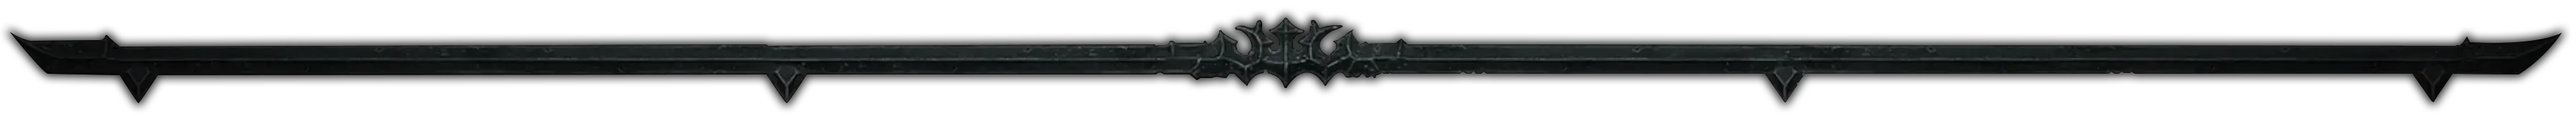
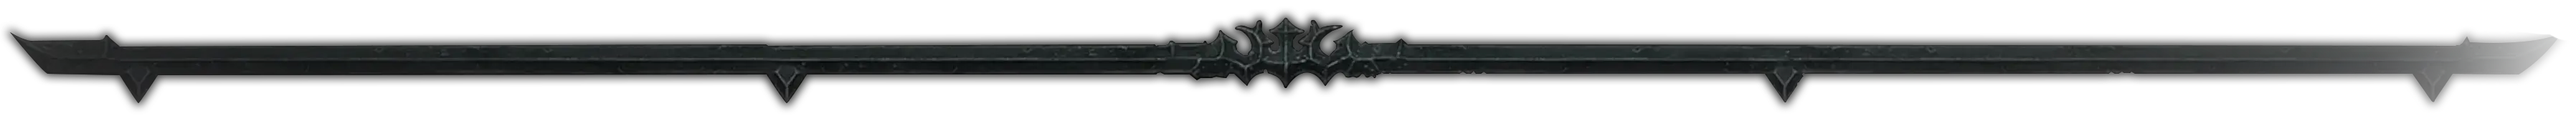
addressed lint flags

Changed region(s): [[0.7795, 0.2469, 0.9978, 0.8951], [0.0, 0.3395, 0.0624, 0.6481], [0.0312, 0.7099, 0.0624, 0.8333]]

diff --git a/src/components/sections/Reviews.tsx b/src/components/sections/Reviews.tsx
@@ -132,8 +132,8 @@ function Review({
   className,
   ...props
 }: Omit<React.ComponentPropsWithoutRef<'figure'>, keyof Review> & Review) {
-  let animationDelay = useMemo(() => {
-    let possibleAnimationDelays = ['0s', '0.1s', '0.2s', '0.3s', '0.4s', '0.5s']
+  const animationDelay = useMemo(() => {
+    const possibleAnimationDelays = ['0s', '0.1s', '0.2s', '0.3s', '0.4s', '0.5s']
     return possibleAnimationDelays[
       Math.floor(Math.random() * possibleAnimationDelays.length)
     ]
@@ -163,9 +163,9 @@ function Review({
 }
 
 function splitArray<T>(array: Array<T>, numParts: number) {
-  let result: Array<Array<T>> = []
+  const result: Array<Array<T>> = []
   for (let i = 0; i < array.length; i++) {
-    let index = i % numParts
+    const index = i % numParts
     if (!result[index]) {
       result[index] = []
     }
@@ -185,16 +185,16 @@ function ReviewColumn({
   reviewClassName?: (reviewIndex: number) => string
   msPerPixel?: number
 }) {
-  let columnRef = useRef<React.ElementRef<'div'>>(null)
-  let [columnHeight, setColumnHeight] = useState(0)
-  let duration = `${columnHeight * msPerPixel}ms`
+  const columnRef = useRef<React.ElementRef<'div'>>(null)
+  const [columnHeight, setColumnHeight] = useState(0)
+  const duration = `${columnHeight * msPerPixel}ms`
 
   useEffect(() => {
     if (!columnRef.current) {
       return
     }
 
-    let resizeObserver = new window.ResizeObserver(() => {
+    const resizeObserver = new window.ResizeObserver(() => {
       setColumnHeight(columnRef.current?.offsetHeight ?? 0)
     })
 
@@ -224,12 +224,12 @@ function ReviewColumn({
 }
 
 function ReviewGrid() {
-  let containerRef = useRef<React.ElementRef<'div'>>(null)
-  let isInView = useInView(containerRef, { once: true, amount: 0.4 })
-  let columns = splitArray(reviews, 3)
-  let column1 = columns[0]
-  let column2 = columns[1]
-  let column3 = splitArray(columns[2], 2)
+  const containerRef = useRef<React.ElementRef<'div'>>(null)
+  const isInView = useInView(containerRef, { once: true, amount: 0.4 })
+  const columns = splitArray(reviews, 3)
+  const column1 = columns[0]
+  const column2 = columns[1]
+  const column3 = splitArray(columns[2], 2)
 
   return (
     <div

diff --git a/src/components/ui/divider.tsx b/src/components/ui/divider.tsx
@@ -7,7 +7,7 @@ export default function Divider() {
         alt="Divider"
         width={1780}
         height={65}
-        className="z-30 absolute -bottom-12 left-1/2 -translate-x-1/2 select-none max-w-none"
+        className="z-30 absolute -bottom-12 left-1/2 -translate-x-1/2 select-none max-w-none opacity-60 "
         draggable={false}
       />
     )

diff --git a/src/app/page.tsx b/src/app/page.tsx
@@ -1,7 +1,6 @@
 import Hero from "@/components/header/Hero";
 import Trailer from "@/components/sections/Trailer";
 import { Reviews } from "@/components/sections/Reviews";
-import Divider from "@/components/ui/divider";
 
 export default function Home() {
   return (
